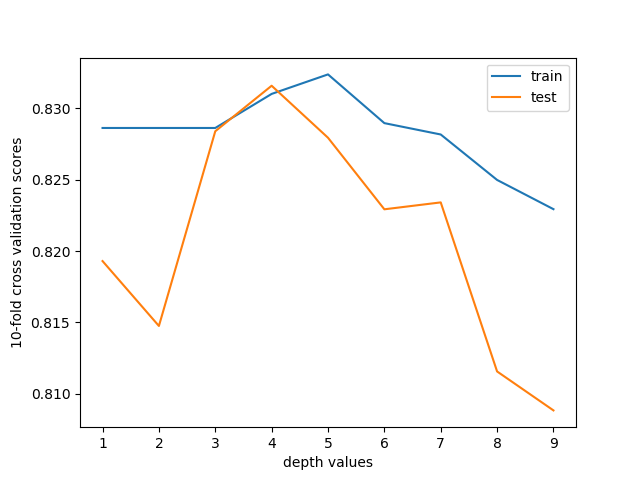
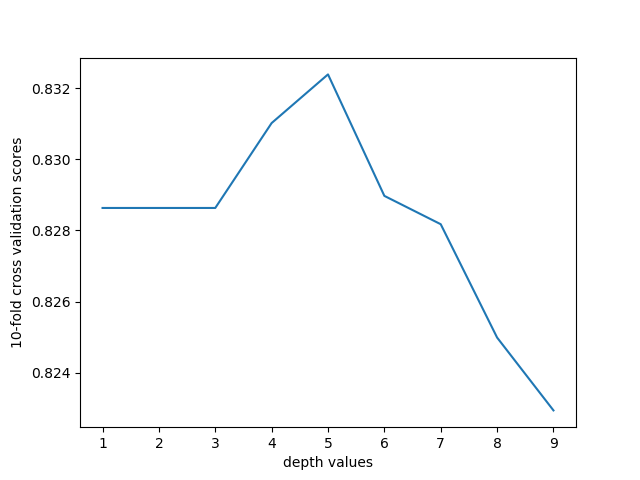
Remove test data from cross validation

diff --git a/src/3_model_fitting.py b/src/3_model_fitting.py
@@ -71,24 +71,23 @@ def main():
     for d in depth_range:
         model = DecisionTreeClassifier(max_depth=d)
         train_cv.append(np.mean(cross_val_score(model, X_train, y_train, cv=10)))
-        test_cv.append(np.mean(cross_val_score(model, X_test, y_test, cv=10)))
     max_cv = max(train_cv)
     opt_d = train_cv.index(max_cv)
 
     # 3.4 plot for the hyperparameter vs. cv scores to visualize the best hyperparameter
-    plt.plot(depth_range, train_cv, label="train")
-    plt.plot(depth_range, test_cv, label="test")
+    plt.plot(depth_range, train_cv)
     plt.xlabel("depth values")
     plt.ylabel("10-fold cross validation scores")
-    plt.legend()
     plt.savefig(output_file_path+"depth_compare.png")
     plt.close()
 
     # 3.5 Set train model with the optimal max_depth
     model = DecisionTreeClassifier(max_depth=opt_d)
     model.fit(X_train,y_train)
-    cv_score = np.mean(cross_val_score(model, X_train, y_train, cv=10))
-    print("We choose the max_depth of", opt_d, ", and the testing score is ", cv_score, " by cross validation")
+    train_score = round(model.score(X_train, y_train),4)
+    test_score= round(model.score(X_test, y_test),4)
+    print("We choose the max_depth of", opt_d, ". The training accuracy is:", train_score,
+    "\nThe testing accuracy is:", test_score)
 
 
     # 4 Exporting
@@ -101,8 +100,9 @@ def main():
     feature_df = pd.DataFrame([fea_importance], columns = feature_cols)
     feature_df.to_csv(output_file_path + "feature_compare.csv")
 
-    #4.3 Export the model CV score to CSV
-    score_d = {"The CV score for the model is": [cv_score]}
+    #4.3 Export the training and test accuracy scores to CSV
+    score_d = {" ": ["Training Accuracy", "Test Accuracy"],
+              "Score": [train_score, test_score]}
     score_df = pd.DataFrame(score_d)
     score_df.to_csv(output_file_path + "model_score.csv")
 
